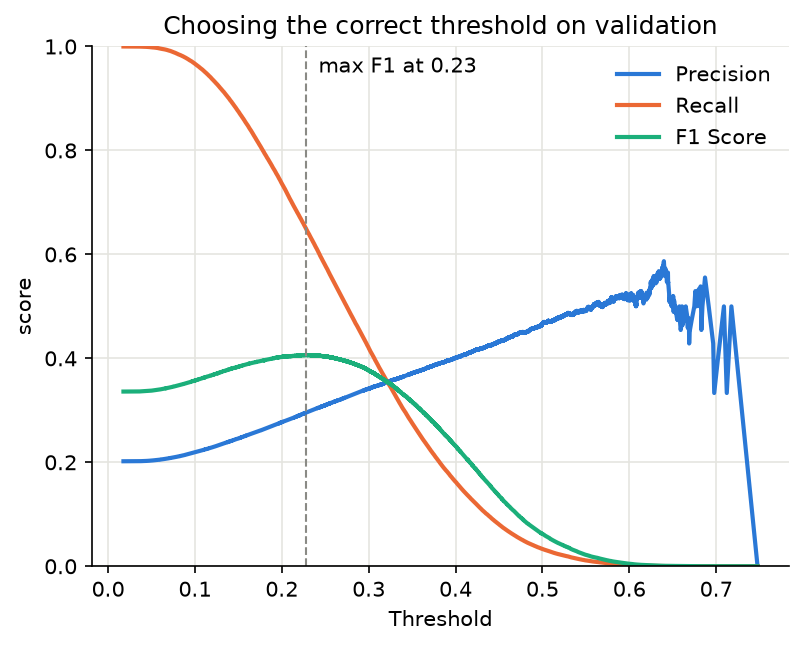
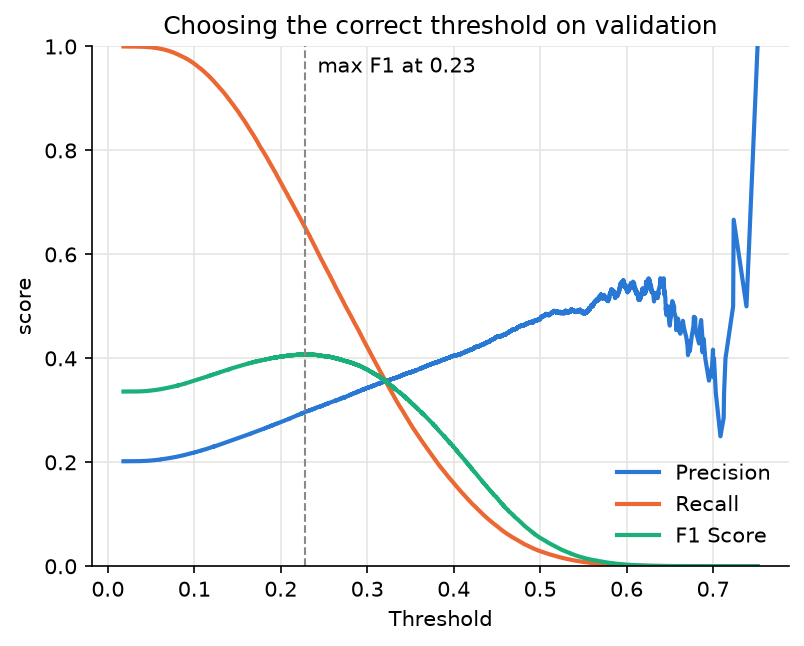
MOD-3: --params/--set flags; num_leaves boundary check; final model (val PR-AUC 0.331)
- --params PATH trains and saves once with the hyperparameters in a JSON
    (metrics JSON or plain dict); --set KEY=VALUE overrides one for this run;
    params_source recorded in the metrics JSON and W&B config
  - hyperopt best (trial 26) sat at the num_leaves lower bound (15); boundary
    check with the other settings fixed: 15 -> 0.3292, 10 -> 0.3302,
    7 -> 0.3308, 4 -> 0.3287 (W&B MOD-3, tag boundary-check)
  - final: trial 26 + num_leaves=7: PR-AUC 0.3308, F1 0.408, gap 8.4%,
    2,494 trees

diff --git a/src/ensemble/lightgbm_model.py b/src/ensemble/lightgbm_model.py
@@ -7,6 +7,7 @@ import lightgbm as lgb
 from src.evaluation import evaluate, print_report, plot_pr_curve, plot_thresholds, save_model, validation_summary, save_json, log_to_wandb, compute_loss
 import argparse
 import time
+import json
 
 # Constants
 
@@ -111,7 +112,7 @@ def build_history(model):
     history = [{"train_logloss": training_loss, "val_logloss": validation_loss} for training_loss, validation_loss in zip(training_history, validation_history)]
     return history
 
-def build_results(model, training, training_metrics, validation, validation_metrics, validation_floor, history, train_seconds, hyperparams):
+def build_results(model, training, training_metrics, validation, validation_metrics, validation_floor, history, train_seconds, hyperparams, params_source=None):
     results = {
       "run": "MOD-3",
       "date": date.today().isoformat(),
@@ -128,6 +129,10 @@ def build_results(model, training, training_metrics, validation, validation_metr
       "best_iteration": int(model.best_iteration_ - 1),      
       "rounds_trained": len(history),
     }
+
+    # only for --params runs: which file the settings came from and what --set changed
+    if params_source is not None:
+        results["params_source"] = params_source
 
     results["train"] = training_metrics
     results["validation"] = validation_summary(validation_metrics, validation_floor)
@@ -161,7 +166,7 @@ def build_model(fixed_params, hyperparams: dict):
                               **hyperparams)
     return model
 
-def train_and_evaluate(hyperparams, data, tags, save):
+def train_and_evaluate(hyperparams, data, tags, save, params_source=None):
     training, training_y, validation, validation_y = data
     
     # make the model
@@ -202,13 +207,35 @@ def train_and_evaluate(hyperparams, data, tags, save):
                             validation_floor=validation_floor,
                             history=history,
                             train_seconds=train_seconds,
-                            hyperparams=hyperparams)
+                            hyperparams=hyperparams,
+                            params_source=params_source)
     
     # save to weights and biases
     figure_paths = save_outputs(results=results, validation_metrics=validation_metrics, validation_floor=validation_floor, model=model) if save else {}
     log_to_wandb(results=results, figures=figure_paths, tags=tags, history=history)
 
     return validation_metrics["pr_auc"]
+
+def load_params(path, overrides):
+    # accepts a metrics JSON (uses its "hyperparameters" block) or a plain dict of hyperparameters
+    res = json.loads(Path(path).read_text())
+    all_params = res.get("hyperparameters", res)
+
+    # fixed params only ever come from the code; build_model already passes FIXED_PARAMS,
+    # so leaving them in would pass e.g. "objective" twice and raise a TypeError
+    params = {hyperparam_label : all_params[hyperparam_label] for hyperparam_label in all_params if hyperparam_label not in FIXED_PARAMS}
+
+    # --set KEY=VALUE overrides for this run only, e.g. ["num_leaves=7"]
+    for override in overrides:
+        key, value = override.split("=", 1)
+        # catch typos (e.g. num_leaf=7) instead of letting LightGBM silently ignore an unknown setting
+        if key not in DEFAULT_HYPERPARAMS_DICT:
+            raise ValueError(f"--set {key}: not a tunable hyperparameter, expected one of {sorted(DEFAULT_HYPERPARAMS_DICT)}")
+        # json.loads turns "7" into 7 and "0.05" into 0.05
+        params[key] = json.loads(value)
+
+    # to_params fills any missing setting from the defaults and casts the integer settings
+    return to_params(params)
 
 def to_params(trial):
     hyperparams = {**DEFAULT_HYPERPARAMS_DICT, **trial}
@@ -250,12 +277,22 @@ def run_hyperopt(data, max_evals):
 
 def main():
     parser = argparse.ArgumentParser()
-    parser.add_argument("--tune", type=int, default=0)
+    mode = parser.add_mutually_exclusive_group()
+    mode.add_argument("--tune", type=int, default=0)
+    mode.add_argument("--params", type=Path, default=None, help="train and save once with the hyperparameters in this JSON file")
+    parser.add_argument("--set", dest="overrides", action="append", default=[], metavar="KEY=VALUE", help="override one hyperparameter from --params for this run (repeatable)")
     args = parser.parse_args()
+
+    if args.overrides and args.params is None:
+        parser.error("--set requires --params")
 
     data = prepare_data()
     if args.tune > 0:
         run_hyperopt(data, args.tune)
+    elif args.params is not None:
+        params = load_params(args.params, args.overrides)
+        params_source = {"file": str(args.params), "overrides": args.overrides}
+        train_and_evaluate(params, data, [WANDB_MODEL_TAG, WANDB_FEATURE_TAG, "final"], save=True, params_source=params_source)
     else:
       train_and_evaluate(DEFAULT_HYPERPARAMS_DICT, data, [WANDB_MODEL_TAG, WANDB_FEATURE_TAG, "default"], save=True)
 
